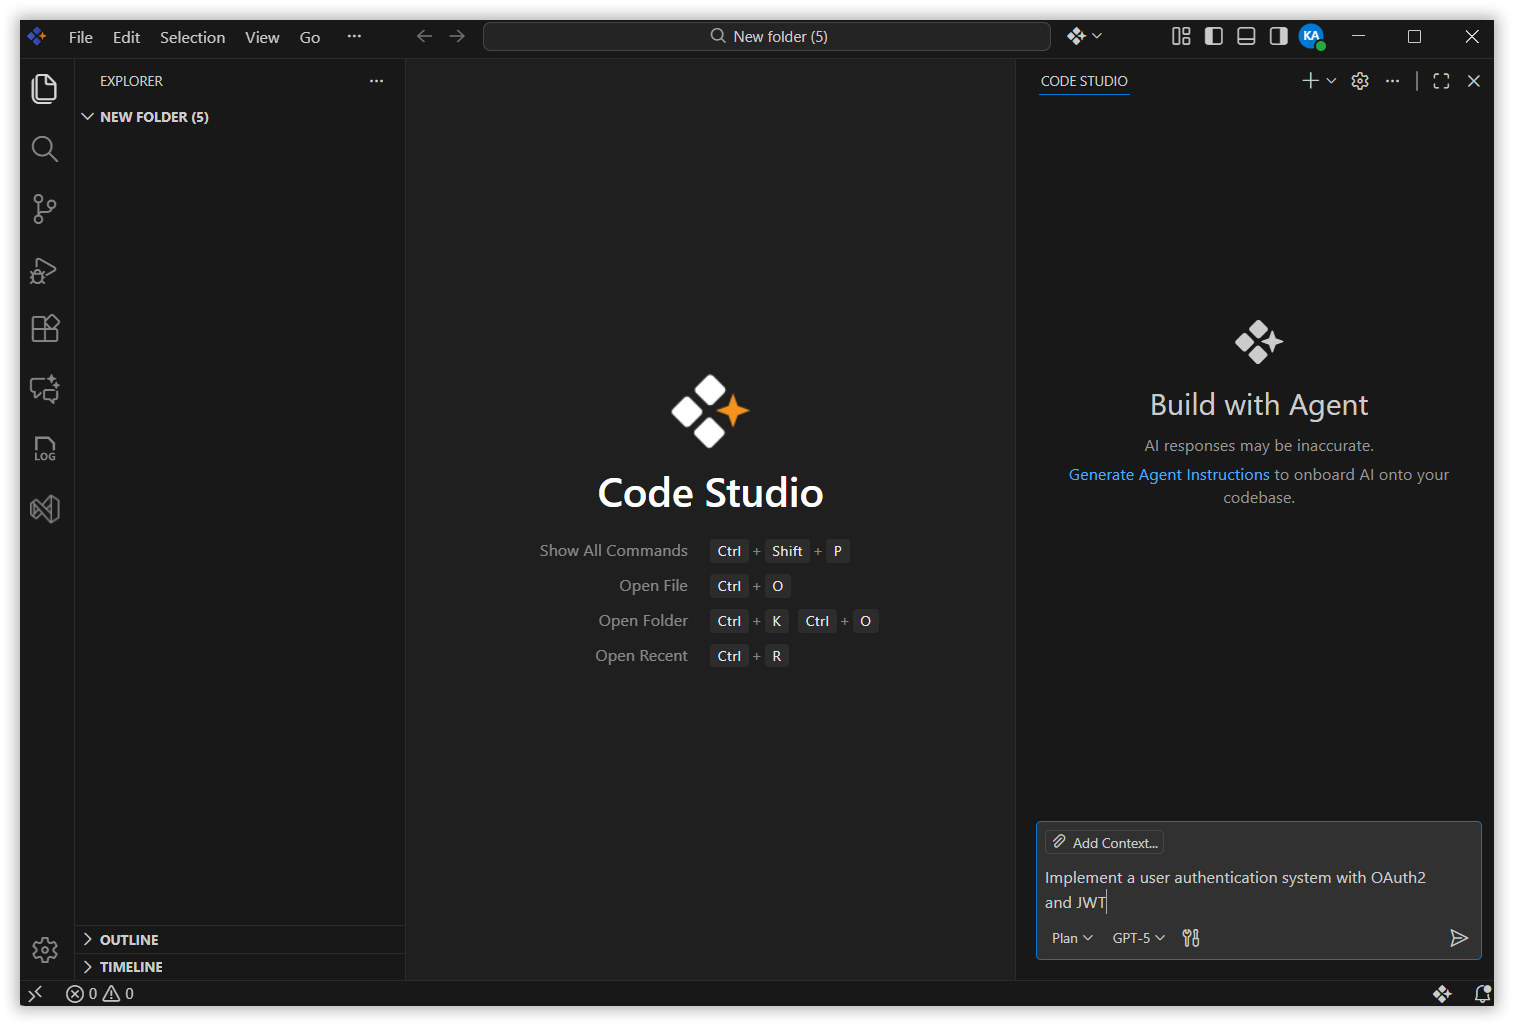
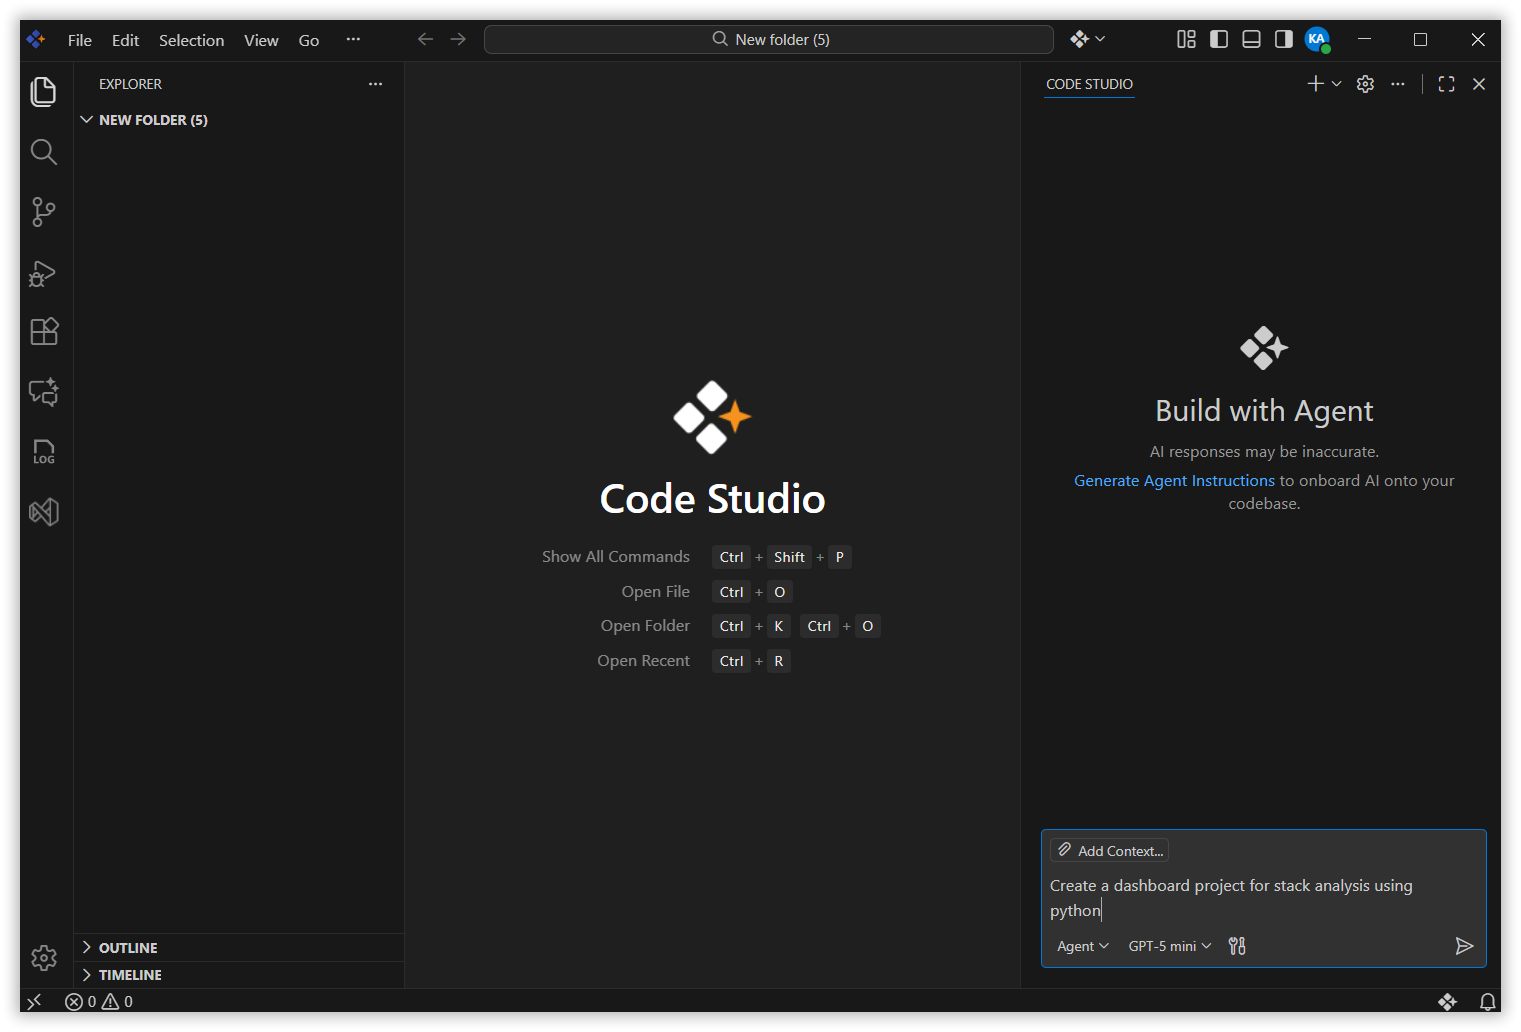
Added review changes for plan mode

diff --git a/code-studio/features/plan.md b/code-studio/features/plan.md
@@ -5,7 +5,7 @@ platform: syncfusion-code-studio
 keywords: code, IDE, AI, developer-tools, syncfusion, code-assistance, productivity, UI-generation, bug-fixing, documentation
 ---
 
-# Plan Mode in Syncfusion Code Studio
+# Plan Mode
 
 ## Feature Overview
 
@@ -23,8 +23,7 @@ Use the Plan Agent when you need to:
 ## Prerequisites
 
 Before you start, make sure you have:
-* Syncfusion Code Studio installed and configured on your system
-* If you have not yet downloaded Code Studio, refer to the [installation guide](https://help.syncfusion.com/code-studio/getting-started/install-and-configuration)
+* Syncfusion Code Studio is installed and configured on your system. If you have not yet downloaded Code Studio, refer to the [Syncfusion Code Studio Install and Configure](https://help.syncfusion.com/code-studio/getting-started/install-and-configuration)
 
 ## Getting Started with the Plan Feature
 
@@ -41,7 +40,7 @@ Before you start, make sure you have:
 
     **Example:**
     ```
-    Implement a user authentication system with OAuth2 and JWT
+    Create a dashboard project for stack analysis using python
     ```
     <img src="./feature-images/prompt-plan.png" alt="Describe Task">
 
